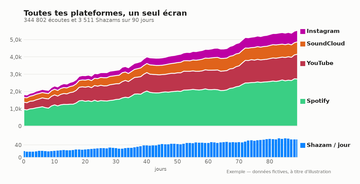
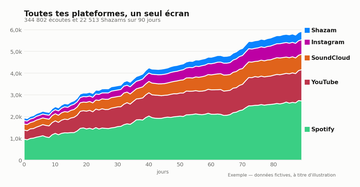
R455 : figures de bienvenue — Shazam 5ᵉ bande de la pile (C1) ; 3 probabilités DW / Release Radar / Radio en prévision seule, 0-100 % (C2) ; « Optimiser ton budget Meta Ads pour maximiser tes streams » avec budget conseillé hachuré après le trait (C3) ; promesses FR/EN et légendes du mail alignées ;

diff --git a/tools/dev/make_example_charts.py b/tools/dev/make_example_charts.py
@@ -163,7 +163,15 @@ def _save(fig, name: str) -> Path:
 
 
 def dashboard_global() -> Path:
-    """Toutes les plateformes sur un seul écran — aire empilée, 4 séries."""
+    """Toutes les plateformes sur un seul écran — aire empilée, 5 séries montantes.
+
+    R455 (2026-10-07, commentaire vocal C1) : « Shazam devient la 5ᵉ courbe montante ».
+    R438 l'avait mis dans une bande à part, sous la pile, pour ne pas gonfler le total
+    d'écoutes. Le propriétaire le veut DANS la pile, comme les autres plateformes : il
+    devient la 5ᵉ bande, et le risque que R438 visait est tenu par le sous-titre, qui
+    compte les écoutes et les Shazams SÉPARÉMENT — la hauteur de la pile n'est jamais
+    écrite comme un nombre d'écoutes.
+    """
     rng = np.random.default_rng(20260904)
     days = np.arange(90)
     base = {
@@ -171,20 +179,12 @@ def dashboard_global() -> Path:
         "YouTube":    420 + days * 11 + rng.normal(0, 60, 90).cumsum() * 0.4,
         "SoundCloud": 260 + days * 5 + rng.normal(0, 40, 90).cumsum() * 0.3,
         "Instagram":  180 + days * 4 + rng.normal(0, 30, 90).cumsum() * 0.25,
+        "Shazam":     110 + days * 3 + rng.normal(0, 20, 90).cumsum() * 0.2,
     }
     series = {k: np.clip(v, 40, None) for k, v in base.items()}
-    colours = [BLUE, ORANGE, AQUA, YELLOW]
+    colours = [BLUE, ORANGE, AQUA, YELLOW, SHAZAM]
 
-    # Shazam (R437/R438, 2026-10-07 : « intègre-moi uniquement le nombre de
-    # Shazam »). Pas une 5ᵉ bande de la pile : un Shazam n'est pas une écoute, et
-    # l'empiler gonflerait le total « écoutes » qui titre la figure. À l'échelle
-    # des écoutes (~8 000/j) une courbe de ~40/j serait un trait plat : il a donc
-    # sa propre bande, fine, sous la pile, sur le MÊME axe du temps.
-    shazam = np.clip(18 + days * 0.42 + rng.normal(0, 4, 90).cumsum() * 0.35, 4, None)
-
-    fig, (ax, axs) = plt.subplots(
-        2, 1, figsize=(9, 4.38), sharex=True,
-        gridspec_kw={"height_ratios": [4.2, 1], "hspace": 0.12})
+    fig, ax = plt.subplots(figsize=(9, 4.38))
     ax.stackplot(days, *series.values(), colors=colours,
                  # 2 px surface gap between stacked fills — the segments must not
                  # touch, or two adjacent hues read as one shape.
@@ -192,7 +192,7 @@ def dashboard_global() -> Path:
     _frame(ax)
 
     # Direct labels at the right end: required by the relief rule (aqua and yellow
-    # sit under 3:1 on this surface) AND better than a legend box for 4 series.
+    # sit under 3:1 on this surface) AND better than a legend box for 5 series.
     tops = np.cumsum([s[-1] for s in series.values()])
     ymax = tops[-1]
     prev = 0.0
@@ -200,64 +200,65 @@ def dashboard_global() -> Path:
         _series_tag(ax, 1.02, ((prev + top) / 2) / ymax, name, colour)
         prev = top
 
-    total = int(sum(s.sum() for s in series.values()))
+    listens = int(sum(s.sum() for k, s in series.items() if k != "Shazam"))
+    n_shazam = int(series["Shazam"].sum())
     ax.set_title("Toutes tes plateformes, un seul écran", fontsize=14,
                  fontweight="700", color=INK, loc="left", pad=18)
-    n_shazam = int(shazam.sum())
-    ax.text(0, 1.035, f"{total:,}".replace(",", " ") + " écoutes et "
+    ax.text(0, 1.035, f"{listens:,}".replace(",", " ") + " écoutes et "
             + f"{n_shazam:,}".replace(",", " ") + " Shazams sur 90 jours",
             transform=ax.transAxes, fontsize=10, color=INK_MUTED)
     ax.set_xlim(0, days[-1])
-
-    axs.bar(days, shazam, color=SHAZAM, width=0.8)
-    _frame(axs)
-    axs.set_ylim(0, shazam.max() * 1.25)
-    axs.yaxis.set_major_locator(plt.MaxNLocator(2))
-    _series_tag(axs, 1.02, 0.5, "Shazam / jour", SHAZAM)
-    axs.set_xlabel("jours", fontsize=9)
+    ax.set_ylim(0, ymax * 1.04)
+    ax.set_xlabel("jours", fontsize=9)
     _example_badge(fig)
     return _save(fig, "dashboard-global.png")
 
 
 def discover_weekly_prediction() -> Path:
-    """Le déclenchement prédit, puis observé — une seule série, donc pas de légende."""
-    rng = np.random.default_rng(11)
-    days = np.arange(60)
-    trigger = 34
-    streams = 320 + rng.normal(0, 25, 60).cumsum() * 0.4
-    streams[trigger:] += np.linspace(0, 2600, 60 - trigger) ** 0.92
-    streams = np.clip(streams, 120, None)
+    """Trois probabilités de déclenchement — DW, Release Radar, Radio — en prévision seule.
 
-    fig, ax = plt.subplots(figsize=(9, 4.2))
-    ax.plot(days, streams, color=BLUE, linewidth=2)
-    ax.fill_between(days[:trigger + 1],
-                    streams[:trigger + 1] * 0.82, streams[:trigger + 1] * 1.18,
-                    color=BLUE, alpha=0.12, linewidth=0)
+    R455 (2026-10-07, commentaire vocal C2) : « trois courbes de pourcentage de
+    déclencher, uniquement en prévision ». La figure montrait UNE série d'écoutes avec
+    un déclenchement observé : elle racontait le passé. Elle dit maintenant ce que
+    l'outil calcule — une probabilité par playlist, jour par jour, à partir
+    d'aujourd'hui. Tout est pointillé : rien n'y est mesuré. Une probabilité est
+    bornée, l'axe va donc de 0 à 100 %, sans échelle à choisir.
+    """
+    ahead = np.linspace(0, 28, 113)   # fine grid: a steep start must stay a curve
+    reach = ahead / ahead[-1]
+    curves = {   # (nom, couleur, niveau atteint à J+28, vitesse)
+        "Release Radar":   (0.86, BLUE, 0.45),
+        "Discover Weekly": (0.64, AQUA, 0.9),
+        "Radio":           (0.41, YELLOW, 1.4),
+    }
+    # 4.86 in, not 4.2: the end labels widen the saved PNG, and the three figures sit
+    # side by side at one height (test_the_three_figures_are_generated_at_the_same_height).
+    fig, ax = plt.subplots(figsize=(9, 4.86))
+    for name, (top, colour, speed) in curves.items():
+        p = 100 * (0.08 + (top - 0.08) * reach ** speed)
+        ax.plot(ahead, p, color=colour, linewidth=2.2, linestyle=(0, (4, 2.5)))
+        ax.fill_between(ahead, np.clip(p - 9 * reach, 0, 100), np.clip(p + 9 * reach, 0, 100),
+                        color=colour, alpha=0.10, linewidth=0)
+        ax.annotate(f"{name}  {p[-1]:.0f} %", xy=(ahead[-1], p[-1]),
+                    xytext=(ahead[-1] + 0.8, p[-1]), va="center", fontsize=10,
+                    color=INK, fontweight="600", annotation_clip=False)
+        ax.plot([ahead[-1] + 0.35], [p[-1]], marker="s", markersize=7, color=colour,
+                clip_on=False)
     _frame(ax)
-
-    ax.axvline(trigger, color=INK_MUTED, linewidth=1, linestyle=(0, (4, 3)))
-    ax.annotate("Discover Weekly\ndéclenché", xy=(trigger, streams[trigger]),
-                xytext=(trigger - 21, streams.max() * 0.62),
-                fontsize=10, color=INK, fontweight="600",
-                arrowprops=dict(arrowstyle="-", color=INK_MUTED, linewidth=1))
-    ax.annotate(f"{int(streams[-1]):,}".replace(",", " ") + " / jour",
-                xy=(days[-1], streams[-1]), xytext=(days[-1] + 1.5, streams[-1]),
-                va="center", fontsize=10, color=INK, fontweight="600",
-                annotation_clip=False)
-
-    ax.set_title("Prédire le déclenchement, avant de dépenser en promo",
+    ax.yaxis.set_major_formatter(FuncFormatter(lambda v, _p: f"{v:.0f} %"))
+    ax.set_ylim(0, 100)
+    ax.set_xlim(0, ahead[-1])
+    ax.set_xlabel("jours à partir d'aujourd'hui", fontsize=9)
+    ax.set_title("Tes chances d'entrer dans les playlists algorithmiques",
                  fontsize=14, fontweight="700", color=INK, loc="left", pad=18)
-    ax.text(0, 1.035,
-            "La zone claire est la prévision ; le trait, ce qui s'est passé",
+    ax.text(0, 1.035, "Probabilité prévue, jour par jour — la zone claire est l'incertitude",
             transform=ax.transAxes, fontsize=10, color=INK_MUTED)
-    ax.set_xlabel("jours", fontsize=9)
-    ax.set_xlim(0, days[-1])
     _example_badge(fig)
     return _save(fig, "prediction-discover-weekly.png")
 
 
 def meta_x_s4a() -> Path:
-    """Dépense Meta, visites et clics Hypeddit, CPR et écoutes — UN graphique.
+    """Dépense Meta, visites et clics Hypeddit, CPR, écoutes et budget conseillé — UN graphique.
 
     Deux panneaux jusqu'au 2026-10-07, pour ne jamais poser deux échelles sur un
     même tracé. Le propriétaire les a lus comme « incompréhensibles » (R438) : la
@@ -324,6 +325,12 @@ def meta_x_s4a() -> Path:
     ax.patch.set_visible(False)
 
     axe.bar(days, spend, color=ORANGE, width=0.75, alpha=0.28, linewidth=0)
+    # R455 (2026-10-07, C3) : la figure ne raconte plus seulement ce que l'euro a
+    # produit, elle dit combien remettre. Le budget CONSEILLÉ est dessiné à droite du
+    # trait, en barres hachurées : une recommandation, jamais une dépense mesurée.
+    advised = 32.0
+    axe.bar(future[1:], np.full(horizon, advised), color="none", width=0.75,
+            edgecolor=ORANGE, hatch="////", linewidth=0.6, alpha=0.55)
     axe.set_ylim(0, spend.max() * 2.6)
     axe.set_ylabel("€ Meta / jour", fontsize=9, color=INK_MUTED)
     for side in ("top", "left", "bottom"):
@@ -355,24 +362,24 @@ def meta_x_s4a() -> Path:
     _series_tag(ax, 0.02, 0.50, "Spotify (écoutes)", BLUE)
     # Les trois séries de la campagne : nommées dans le creux d'APRÈS la campagne,
     # le seul endroit du tracé où rien ne passe.
-    _series_tag(ax, 0.47, 0.25, "Meta Ads (€, axe de droite)", ORANGE)
-    _series_tag(ax, 0.47, 0.165, "Hypeddit — visites", HYPEDDIT)
-    _series_tag(ax, 0.47, 0.08, "Hypeddit — clics (pointillés)", HYPEDDIT)
+    _series_tag(ax, 0.455, 0.25, "Meta Ads (€, à droite)", ORANGE)
+    _series_tag(ax, 0.455, 0.165, "Hypeddit — visites", HYPEDDIT)
+    _series_tag(ax, 0.455, 0.08, "Hypeddit — clics (⋯)", HYPEDDIT)
 
     ax.text(17, trigger_level * 1.2,
             f"CPR {cpr:.2f} € par clic".replace(".", ","),
             fontsize=10, color=INK, fontweight="600", ha="center")
-    ax.annotate("78 % de chances\nde déclencher\nd'ici 14 jours",
+    ax.annotate(f"Budget conseillé : {advised:.0f} €/j\n→ 78 % de chances\nde déclencher\nd'ici 14 jours",
                 xy=(future[-3], forecast[-3]),
                 xytext=(days[-1] - 13, trigger_level * 0.5),
                 fontsize=10, color=INK, fontweight="600", ha="left",
                 arrowprops=dict(arrowstyle="-", color=INK_MUTED, linewidth=1),
                 annotation_clip=False)
 
-    ax.set_title("Quel euro de pub a produit quelles écoutes",
+    ax.set_title("Optimiser ton budget Meta Ads pour maximiser tes streams",
                  fontsize=14, fontweight="700", color=INK, loc="left", pad=26)
     ax.text(0, 1.035,
-            "Barres : la dépense Meta · à droite du trait, la projection",
+            "Barres : la dépense Meta · à droite du trait, le budget conseillé (hachuré) et la projection",
             transform=ax.transAxes, fontsize=10, color=INK_MUTED)
     _example_badge(fig)
     return _save(fig, "meta-x-s4a.png")

diff --git a/tests/test_the_welcome_figures_tell_the_three_promises.py b/tests/test_the_welcome_figures_tell_the_three_promises.py
@@ -1,0 +1,74 @@
+"""R455 — the three welcome figures draw what the owner asked for, read off the built figure.
+
+Type: Test
+Uses: tools/dev/make_example_charts (dashboard_global, discover_weekly_prediction, meta_x_s4a)
+Depends on: matplotlib (Agg)
+
+Owner, 2026-10-07 (voice comments C1-C3):
+- C1 « Shazam devient la 5ᵉ courbe montante » of the multi-platform figure;
+- C2 « trois courbes de pourcentage de déclencher, uniquement en prévision » — DW,
+  Release Radar, Radio, on a 0-100 % axis, nothing measured (every line dashed);
+- C3 « optimiser le budget Meta Ads pour maximiser les streams » — the campaign figure
+  says how much to put back, so the advised budget is drawn after the last observed day.
+
+The figure is captured at `_save`, so the test reads the Axes the PNG is made of, not
+the source text that builds it.
+
+Mutation record (2026-10-07): Shazam removed from the stack → red; Radio drawn solid →
+red; the advised-budget bars removed → red.
+"""
+from __future__ import annotations
+
+import importlib.util
+from pathlib import Path
+
+import pytest
+
+_SCRIPT = Path(__file__).resolve().parents[1] / "tools" / "dev" / "make_example_charts.py"
+
+
+@pytest.fixture()
+def built(monkeypatch):
+    spec = importlib.util.spec_from_file_location("_r455_charts", _SCRIPT)
+    charts = importlib.util.module_from_spec(spec)
+    spec.loader.exec_module(charts)
+    figures = {}
+    monkeypatch.setattr(charts, "_save", lambda fig, name: figures.setdefault(name, fig))
+
+    def build(maker: str):
+        getattr(charts, maker)()
+        (fig,) = figures.values()
+        figures.clear()
+        return fig
+    return build
+
+
+def _texts(ax) -> str:
+    return " ".join(t.get_text() for t in ax.texts) + " " + ax.get_title(loc="left")
+
+
+def test_shazam_is_the_fifth_stacked_band(built):
+    (ax,) = built("dashboard_global").axes
+    bands = [c for c in ax.collections if type(c).__name__ in {"PolyCollection", "FillBetweenPolyCollection"}]
+    assert len(bands) == 5, f"{len(bands)} stacked bands, the owner asked for five"
+    assert "Shazam" in _texts(ax)
+
+
+def test_the_prediction_is_three_forecast_probabilities(built):
+    (ax,) = built("discover_weekly_prediction").axes
+    curves = [ln for ln in ax.lines if len(ln.get_xdata()) > 2]
+    assert len(curves) == 3
+    assert all(ln.get_linestyle() != "-" for ln in curves), "a solid line reads as measured"
+    assert ax.get_ylim() == (0, 100)
+    labels = _texts(ax)
+    assert all(name in labels for name in ("Discover Weekly", "Release Radar", "Radio"))
+
+
+def test_the_campaign_figure_advises_a_budget_after_today(built):
+    fig = built("meta_x_s4a")
+    ax, axe = fig.axes
+    last_observed = max(ln.get_xdata()[-1] for ln in ax.lines if ln.get_linestyle() == "-"
+                        and len(ln.get_xdata()) > 2)
+    advised = [p for p in axe.patches if p.get_x() > last_observed and p.get_height() > 0]
+    assert advised, "no budget drawn after the last observed day"
+    assert "budget" in ax.get_title(loc="left").lower()

diff --git a/tests/test_the_setup_page_is_reachable_and_on_top.py b/tests/test_the_setup_page_is_reachable_and_on_top.py
@@ -1216,8 +1216,11 @@ def test_the_sandbox_reset_actually_sends_the_verification_mail():
 
 def test_the_algo_promise_names_the_algorithmic_playlists():
     """R438, 2026-10-07 : « prédire le déclenchement des playlists algorithmiques
-    Spotify : Discover Weekly, Release Radar et Radio » — dans les deux langues."""
+    Spotify : Discover Weekly, Release Radar et Radio » — dans les deux langues.
+    R455 (C2) : la promesse devient une probabilité (« tes chances de déclencher… »),
+    les trois playlists restent nommées."""
     from src.dashboard.utils.i18n_catalog.onboarding import EN
     view = code_of(REPO / "src" / "dashboard" / "views" / "onboarding.py")
-    assert "déclenchement des playlists algorithmiques Spotify" in view
+    assert "déclencher les playlists algorithmiques Spotify" in view
+    assert all(p in view for p in ("Discover Weekly", "Release Radar", "Radio"))
     assert "algorithmic playlists" in EN["onboarding.promise_algo"]

diff --git a/src/dashboard/utils/i18n_catalog/onboarding.py b/src/dashboard/utils/i18n_catalog/onboarding.py
@@ -32,8 +32,8 @@ EN = {
     "onboarding.b1_title": "1. streaMLytics in brief",
     "onboarding.brief_1": "**All your data in one place, pulled every day, "
                           "automatically.**",
-    "onboarding.promise_algo": "**Predict when Spotify's algorithmic playlists trigger: Discover Weekly, Release Radar and Radio**",
-    "onboarding.promise_campaign": "**See which ad euro produced which streams**",
+    "onboarding.promise_algo": "**Your odds of triggering Spotify's algorithmic playlists — Discover Weekly, Release Radar and Radio — forecast day by day**",
+    "onboarding.promise_campaign": "**Optimise your Meta Ads budget to maximise your streams**",
     "onboarding.step1": "1. Welcome & pick",
     "onboarding.step2": "2. Where you stand",
     "onboarding.b0_title": "0. Your language",

diff --git a/src/dashboard/views/onboarding.py b/src/dashboard/views/onboarding.py
@@ -178,9 +178,9 @@ def _step_welcome(plan: str, artist_id: int, db) -> None:
               "**Toutes tes données au même endroit, récupérées chaque jour, "
               "automatiquement.**"),
             t("onboarding.promise_algo",
-              "**Prédire le déclenchement des playlists algorithmiques Spotify : Discover Weekly, Release Radar et Radio**"),
+              "**Tes chances de déclencher les playlists algorithmiques Spotify — Discover Weekly, Release Radar et Radio — prévues jour par jour**"),
             t("onboarding.promise_campaign",
-              "**Savoir quel euro de pub a produit quelles écoutes**"))):
+              "**Optimiser ton budget Meta Ads pour maximiser tes streams**"))):
         with col:
             render_example(name)
             st.markdown(line)

diff --git a/src/utils/verification_email.py b/src/utils/verification_email.py
@@ -252,9 +252,9 @@ _WELCOME_FIGURES: tuple[tuple[str, str, str], ...] = (
     (_WELCOME_IMAGE_CID, "dashboard-global",
      "Toutes tes plateformes sur un seul écran"),
     ("streamlytics-example-prediction", "prediction-discover-weekly",
-     "La prédiction de déclenchement Discover Weekly"),
+     "Tes chances de déclencher Discover Weekly, Release Radar et Radio"),
     ("streamlytics-example-meta", "meta-x-s4a",
-     "Ce que chaque euro de pub a produit"),
+     "Optimiser ton budget Meta Ads pour maximiser tes streams"),
 )
 
 
